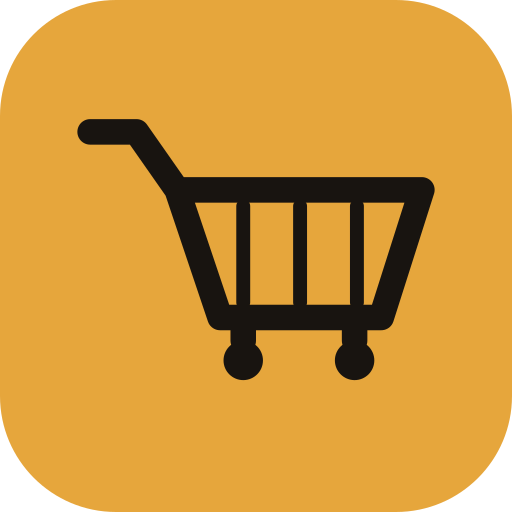
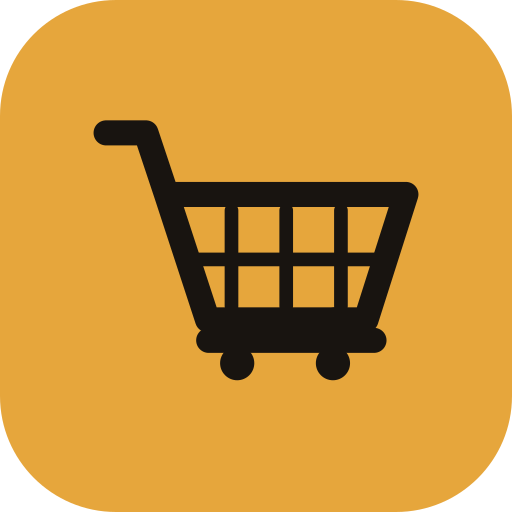
Itens da lista sem caixinha (flat real) + ícone melhorado
- Aba Listas: item perde o card (fundo do app + linha fina embaixo),
  igual ao exemplo Flat. Caixinhas do cadastro (aba Itens) mantidas.
- Ícone: + grade horizontal (grade 3x2), alça mais vertical, e o "pé"
  (base onde os carrinhos encaixam) com as rodas embaixo.

Changed region(s): [[0.2812, 0.2812, 0.8438, 0.75], [0.125, 0.2188, 0.3125, 0.2812], [0.2188, 0.2812, 0.2812, 0.3125]]

diff --git a/app/lib/features/listas/listas_screen.dart b/app/lib/features/listas/listas_screen.dart
@@ -524,26 +524,19 @@ class _ListasScreenState extends ConsumerState<ListasScreen> {
       background: Container(
         alignment: Alignment.centerRight,
         padding: const EdgeInsets.only(right: 20),
-        margin: const EdgeInsets.only(bottom: 8),
-        decoration: BoxDecoration(
-          color: AppColors.danger.withValues(alpha: 0.18),
-          borderRadius: BorderRadius.circular(14),
-        ),
+        color: AppColors.danger.withValues(alpha: 0.16),
         child: const Icon(Icons.delete_outline, color: AppColors.danger),
       ),
       onDismissed: (_) => _removerDaLista(it, p, atual.id),
       child: InkWell(
-        borderRadius: BorderRadius.circular(14),
         onTap: () => ref
             .read(listasRepoProvider)
             .setComprado(atual.id, it.id, !it.comprado),
+        // FLAT: item sem caixinha — fundo do app, separado por linha fina embaixo
         child: Container(
-          margin: const EdgeInsets.only(bottom: 8),
-          padding: const EdgeInsets.symmetric(horizontal: 12, vertical: 10),
-          decoration: BoxDecoration(
-            color: AppColors.surface,
-            borderRadius: BorderRadius.circular(14),
-            border: Border.all(color: AppColors.line),
+          padding: const EdgeInsets.symmetric(horizontal: 4, vertical: 13),
+          decoration: const BoxDecoration(
+            border: Border(bottom: BorderSide(color: AppColors.lineStrong)),
           ),
           child: Row(
             children: [
